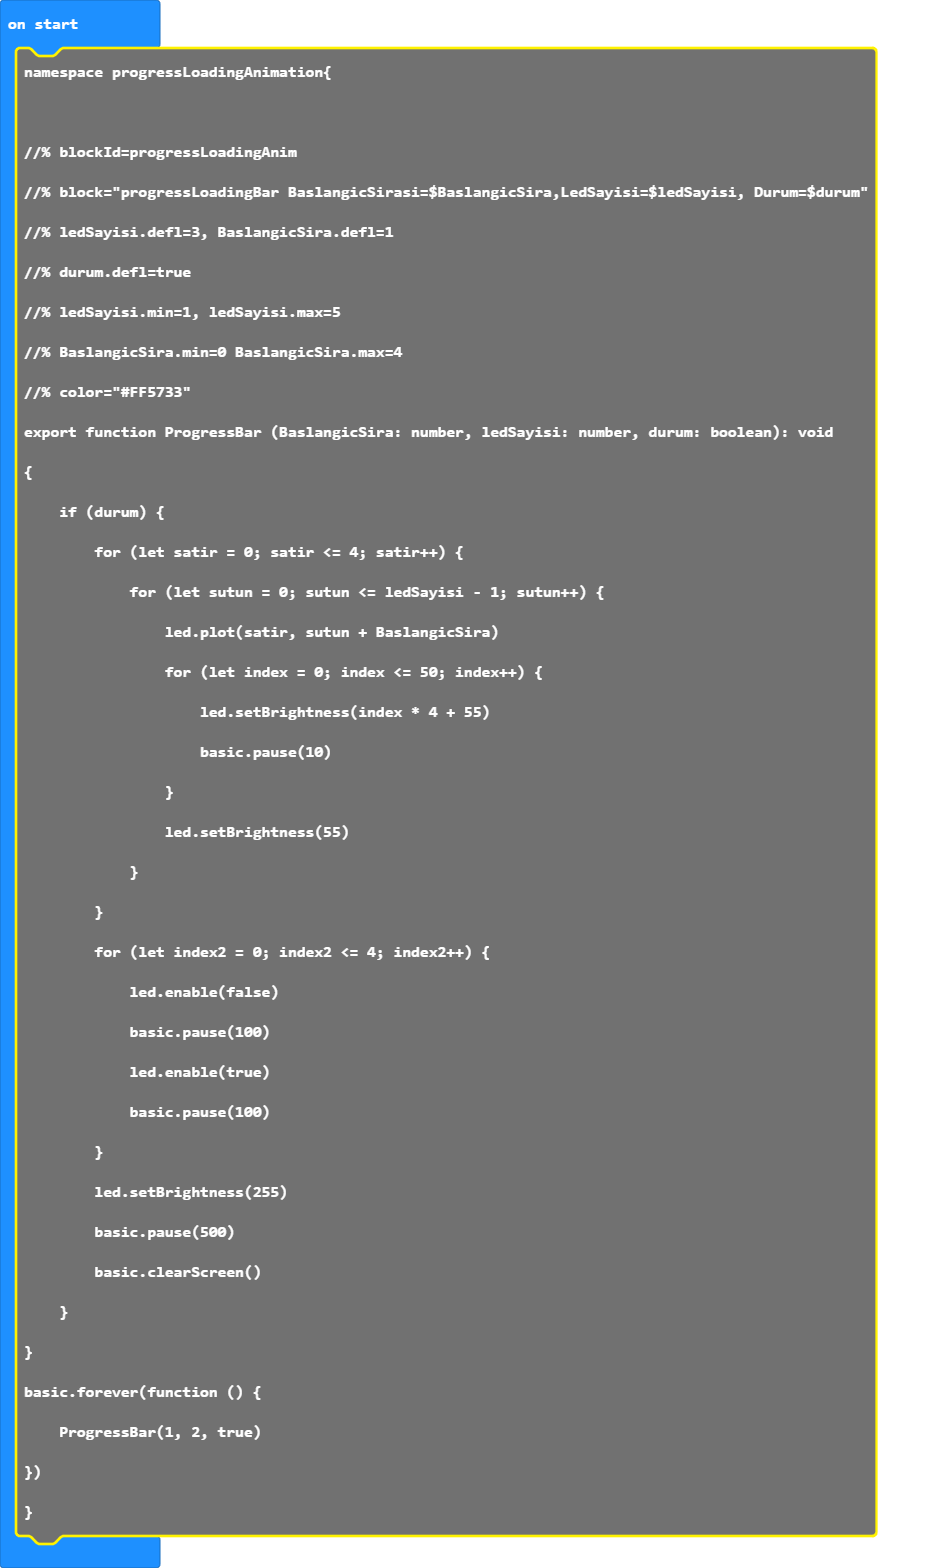
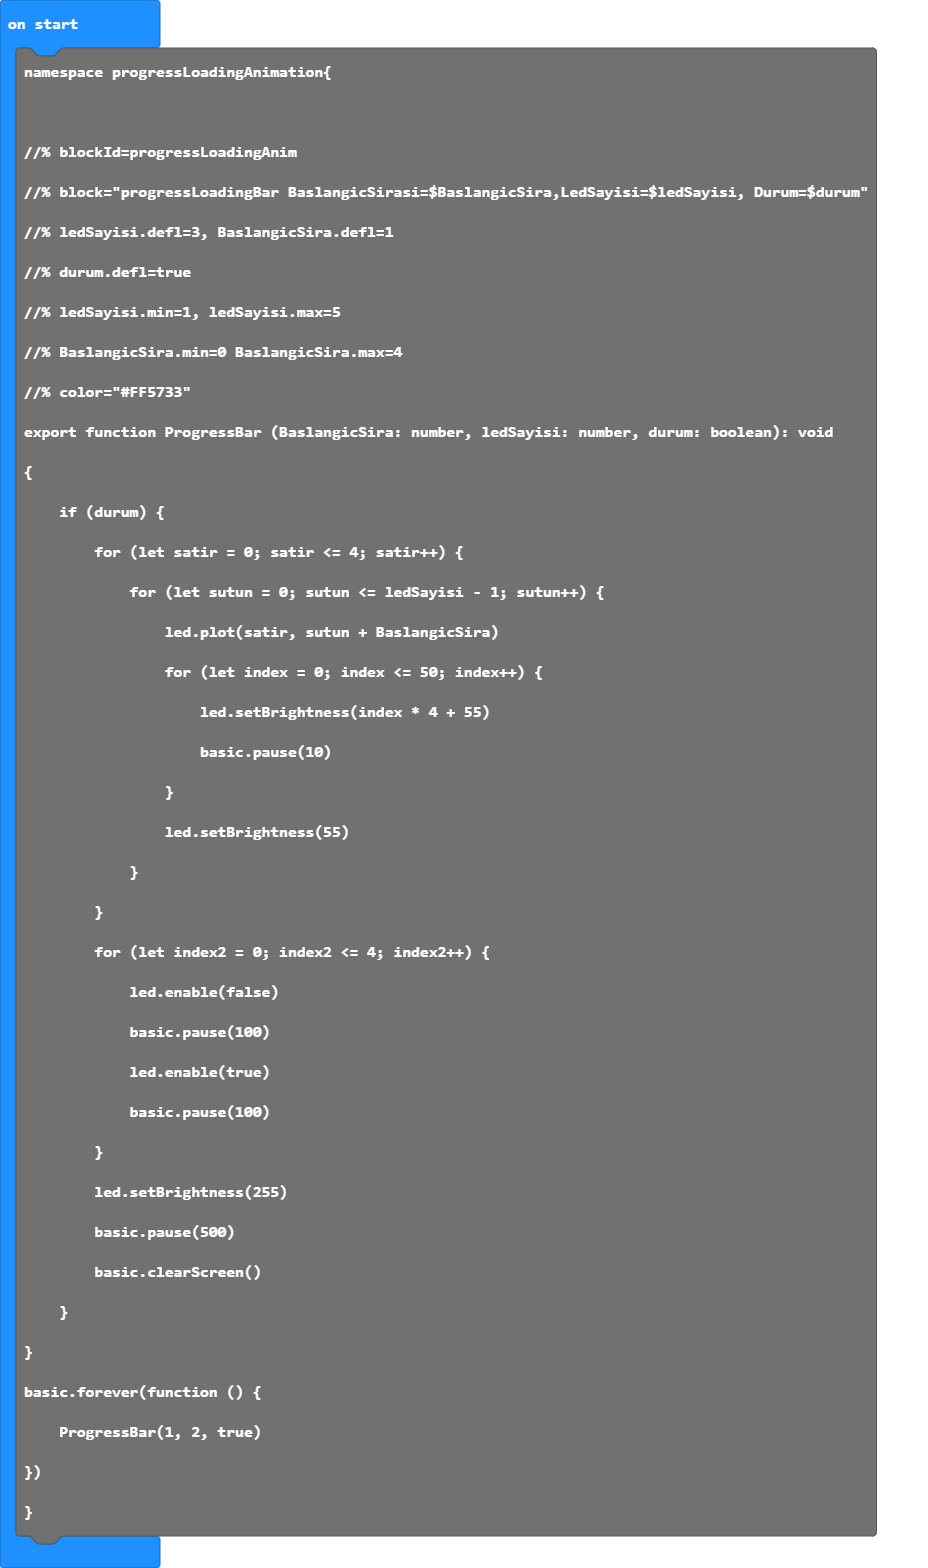
Update main.blocks, main.ts, README.md, test.ts

Changed region(s): [[0.9375, 0.0312, 0.9688, 0.9688], [0.0, 0.0312, 0.0312, 0.9688]]

diff --git a/main.ts b/main.ts
@@ -1,4 +1,3 @@
-//% color="#9C27B0" weight=100 icon="\uf110"
 namespace progressLoadingAnimation{
 
 //% blockId=progressLoadingAnim
@@ -8,12 +7,12 @@ namespace progressLoadingAnimation{
 //% ledSayisi.min=1, ledSayisi.max=5
 //% BaslangicSira.min=0 BaslangicSira.max=4
 //% color="#FF5733"
-export function ProgressBar (BaslangicSira: number, ledSayisi: number, durum: boolean): void 
+export function ProgressBar (baslangicSira: number, ledSayisi: number, durum: boolean): void 
 {
     if (durum) {
         for (let satir = 0; satir <= 4; satir++) {
             for (let sutun = 0; sutun <= ledSayisi - 1; sutun++) {
-                led.plot(satir, sutun + BaslangicSira)
+                led.plot(satir, sutun + baslangicSira)
                 for (let index = 0; index <= 50; index++) {
                     led.setBrightness(index * 4 + 55)
                     basic.pause(10)

diff --git a/test.ts b/test.ts
@@ -1,1 +1,3 @@
 // tests go here; this will not be compiled when this package is used as an extension.
+progressLoadingAnimation.ProgressBar(1, 3, true)
+progressLoadingAnimation.ProgressBar(1, 3,, true)

diff --git a/README.md b/README.md
@@ -29,3 +29,43 @@ This image may take a few minutes to refresh.
 
 * for PXT/microbit
 <script src="https://makecode.com/gh-pages-embed.js"></script><script>makeCodeRender("{{ site.makecode.home_url }}", "{{ site.github.owner_name }}/{{ site.github.repository_name }}");</script>
+
+
+//% color="#9C27B0" weight=100 icon="\uf110"
+namespace progressLoadingAnimation{
+
+//% blockId=progressLoadingAnim
+//% block="progressLoadingBar BaslangicSirasi=$BaslangicSira,LedSayisi=$ledSayisi, Durum=$durum"
+//% ledSayisi.defl=3, BaslangicSira.defl=1
+//% durum.defl=true
+//% ledSayisi.min=1, ledSayisi.max=5
+//% BaslangicSira.min=0 BaslangicSira.max=4
+//% color="#FF5733"
+export function ProgressBar (BaslangicSira: number, ledSayisi: number, durum: boolean): void 
+{
+    if (durum) {
+        for (let satir = 0; satir <= 4; satir++) {
+            for (let sutun = 0; sutun <= ledSayisi - 1; sutun++) {
+                led.plot(satir, sutun + BaslangicSira)
+                for (let index = 0; index <= 50; index++) {
+                    led.setBrightness(index * 4 + 55)
+                    basic.pause(10)
+                }
+                led.setBrightness(55)
+            }
+        }
+        for (let index2 = 0; index2 <= 4; index2++) {
+            led.enable(false)
+            basic.pause(100)
+            led.enable(true)
+            basic.pause(100)
+        }
+        led.setBrightness(255)
+        basic.pause(500)
+        basic.clearScreen()
+    }
+}
+basic.forever(function () {
+    ProgressBar(1, 2, true)
+})
+}
